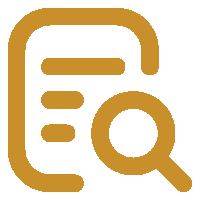
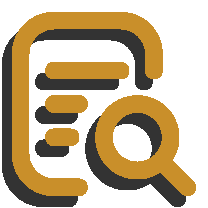
Give the search button a shadow.

diff --git a/_sass/_search.scss b/_sass/_search.scss
@@ -1,4 +1,8 @@
 .search {
+    button {
+        display: none;
+    }
+
     @include screen-width('medium') {
         position: relative;
         margin-top: 8px;
@@ -16,12 +20,13 @@
             background-position: 0 0;
             background-color: transparent;
             border: none;
+            opacity: .85;
         }
 
         #search-form {
             display: none;
             z-index: -1;
-            top: 8px;
+            margin-top: 12px;
             transition: opacity 350ms ease-in;
         }
 
